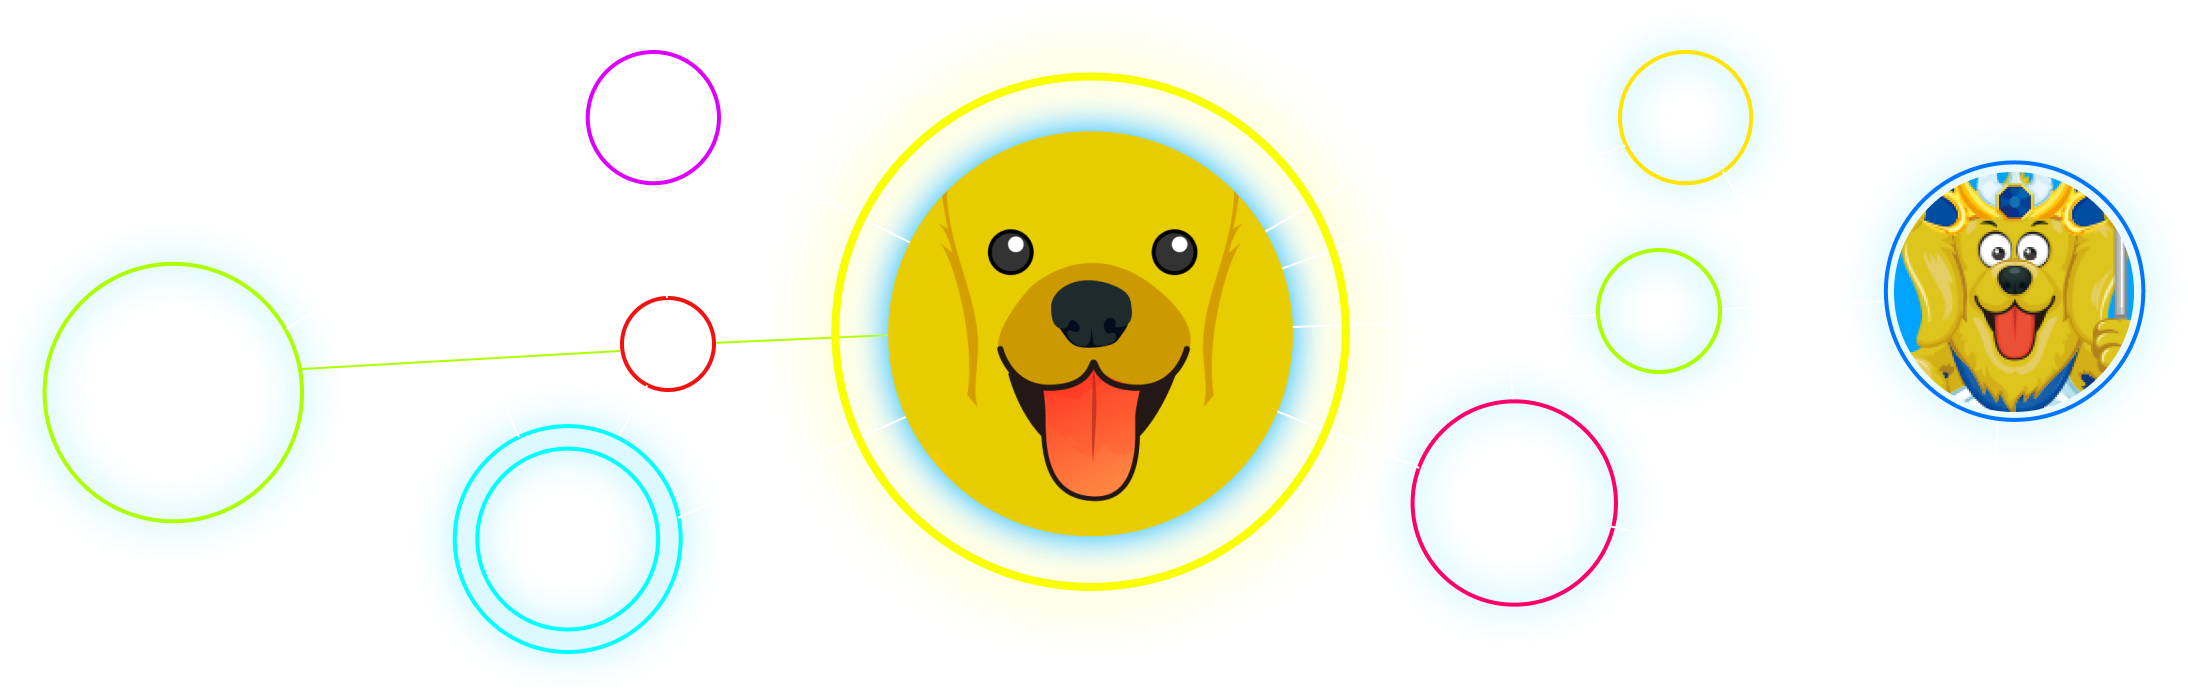
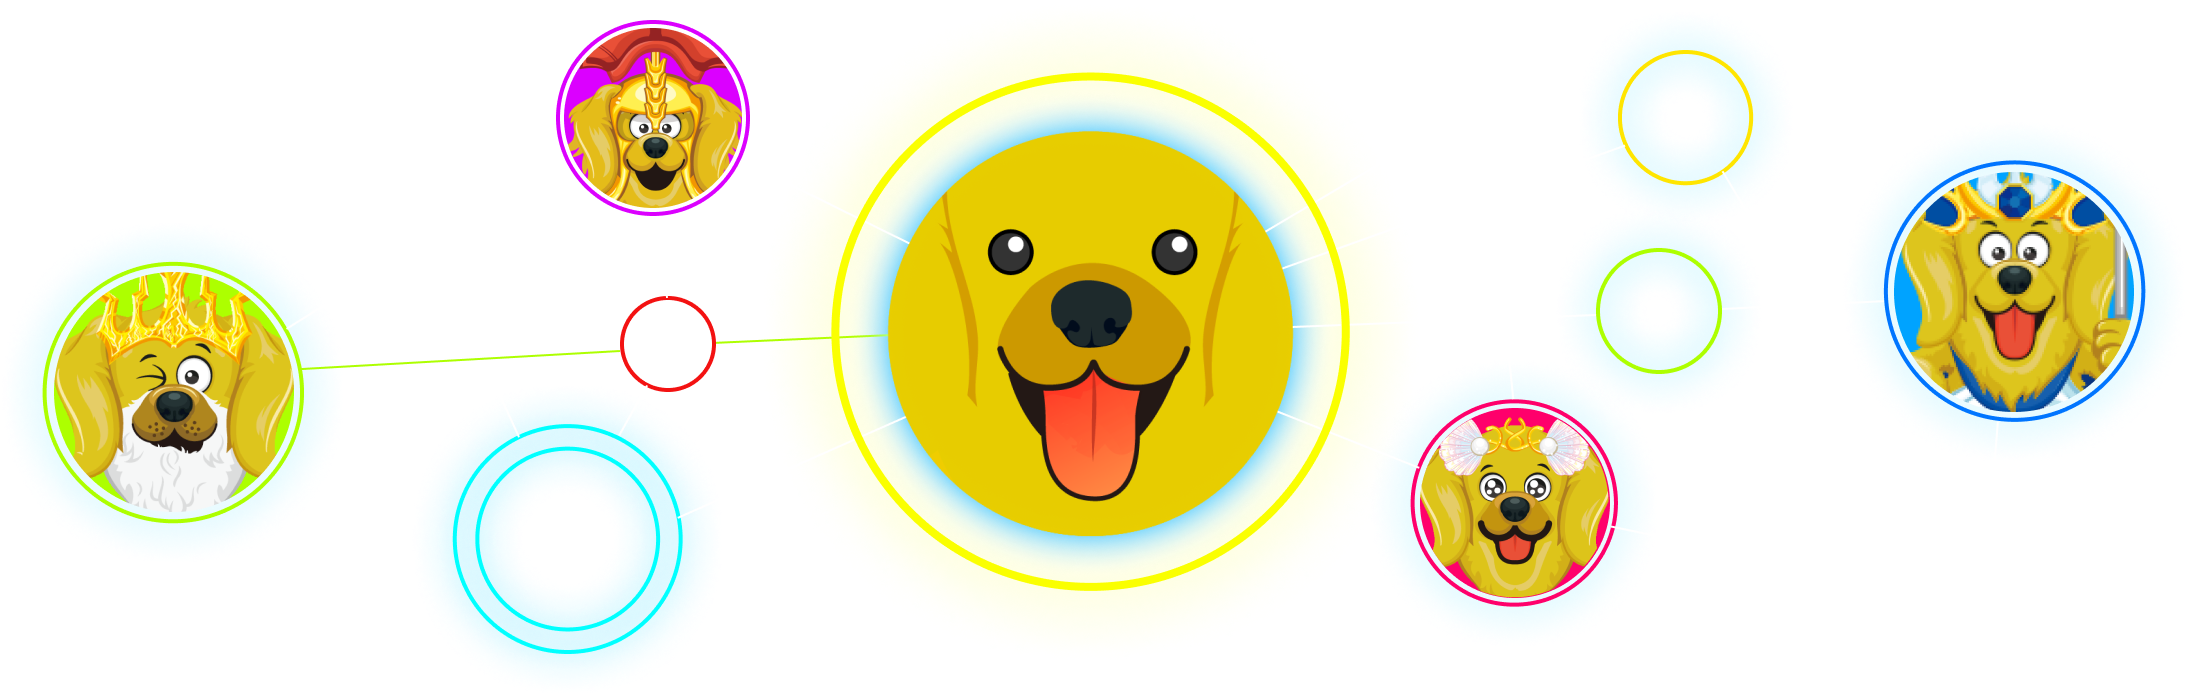
feat add carousel system

Changed region(s): [[0.0, 0.3922, 0.1554, 0.7241], [0.6216, 0.5733, 0.7459, 0.875], [0.2486, 0.0302, 0.3419, 0.3319]]

diff --git a/src/views/Home/Home.tsx b/src/views/Home/Home.tsx
@@ -3,6 +3,7 @@ import styled from 'styled-components'
 import { useTranslation } from 'contexts/Localization'
 import Page from 'components/layout/Page'
 import StatusArea from './components/StatusArea'
+import Carousel from "./components/Carousel";
 
 const AnimeBg = styled.div`
   @keyframes bgiLoop {
@@ -236,7 +237,6 @@ const Section2 = styled.div`
       width: 50%;
     }
   }
-  }
 `
 
 const Section3 = styled.div`
@@ -263,7 +263,6 @@ const Section3 = styled.div`
       width: 50%;
     }
   }
-  }
   img {
     max-height: 375px;
     margin: 0 auto;
@@ -272,7 +271,6 @@ const Section3 = styled.div`
       display: block;
     }
    }
-  }
 `
 
 const Section4 = styled.div`
@@ -302,7 +300,6 @@ const Section4 = styled.div`
       width: 50%;
     }
   }
-  }
 
   img {
     max-height: 350px;
@@ -311,7 +308,6 @@ const Section4 = styled.div`
       display: block;
     }
    }
-  }
 `
 
 const SlipPage = styled.div`
@@ -525,86 +521,7 @@ const Home: React.FC = () => {
             </div>
           </HomeMv>
           <StatusArea />
-          <HomeCarousel>
-            <div className="carouselwrap">
-               <div className="slide">
-                 <div className="image">
-                   <img src="/images/carousel01.png" alt="GoldenRetriever" />
-                 </div>
-                 <div className="text">
-                   <span>
-                   Name： 
-                   </span>
-                   GoldenRetriever
-                 <br />
-                   <span>
-                   Symbol：
-                   </span>
-                   INU
-                 <br />
-                   <span>
-                   Start Total Supply：
-                   </span>
-                   8,000
-                 <br />
-                   <span>
-                   Launch date：
-                   </span>
-                   08/08/2021
-                 <br />
-                   <span>
-                   Feature：
-                   </span>
-                 <br />
-                   The Golden Retriever is a large dog. Gentle character with wisdom and loyalty, Golden Retrievers are loved by many.
-                 </div>
-                 <div className="address">
-                   <span>
-                   Contract address
-                   </span>
-                   <div className="addresstxt">0x3F8b51C9b9Fe2ed06f9A165db906f7946B4C08E2</div>
-                 </div>
-               </div>
-               <div className="slide">
-                 <div className="image">
-                   <img src="/images/carousel02.png" alt="Poseidon" />
-                 </div>
-                 <div className="text">
-                   <span>
-                   Name： 
-                   </span>
-                   Poseidon Retriever
-                 <br />
-                   <span>
-                   Symbol：
-                   </span>
-                   RETPOSEIDON
-                 <br />
-                   <span>
-                   Total Supply：
-                   </span>
-                   6,000
-                 <br />
-                   <span>
-                   Launch date：
-                   </span>
-                   08/08/2021
-                 <br />
-                   <span>
-                   Feature：
-                   </span>
-                 <br />
-                 King of the sea. He is usually serious, but loves to talk with girls. His favorite food is fish, which he always catches and eats with his prized harpoon.
-                 </div>
-                 <div className="address">
-                   <span>
-                   Contract address
-                   </span>
-                   <div className="addresstxt">0x2a652ae0d27a86fd7b62375e9abe521534f6a9f5</div>
-                 </div>
-               </div>
-            </div>
-          </HomeCarousel>
+          <Carousel />
           <HomeContent>
             <Section1 className="mt50">
               <h2 className="txt_center">

diff --git a/src/views/Home/components/Carousel.tsx b/src/views/Home/components/Carousel.tsx
@@ -1,0 +1,93 @@
+import React from "react";
+import styled from "styled-components";
+import Slider from "react-slick";
+import CarouselItem from "./CarouselItem";
+
+
+const Wrapper = styled.div`
+  display: block;
+  width: 100%;
+  box-shadow: 0 0 20px 5px rgb(0 0 0 / 30%) inset;
+  padding: 15px 0 40px;
+  border-radius: 10px;
+  overflow: hidden;
+`
+
+const items = [
+  {
+    imagePath: `/images/carousel01.png`,
+    name: `GoldenRetriever`,
+    symbol: `INU`,
+    startTotalSupply: `8,000`,
+    launchDate: `08/08/2021`,
+    feature: `The Golden Retriever is a large dog. Gentle character with wisdom and loyalty, Golden Retrievers are loved by many.`,
+    contactAddress: `0x3F8b51C9b9Fe2ed06f9A165db906f7946B4C08E2`
+  },
+  {
+    imagePath: `/images/carousel02.png`,
+    name: `Poseidon Retriever`,
+    symbol: `RETPOSEIDON`,
+    startTotalSupply: `6,000`,
+    launchDate: `08/08/2021`,
+    feature: `King of the sea. He is usually serious, but loves to talk with girls. His favorite food is fish, which he always catches and eats with his prized harpoon.`,
+    contactAddress: `0x2a652ae0d27a86fd7b62375e9abe521534f6a9f5`
+  },
+  {
+    imagePath: `/images/carousel03.png`,
+    name: `Zeus Retriever`,
+    symbol: `RETZEUS`,
+    startTotalSupply: `3,000`,
+    launchDate: `27/08/2021`,
+    feature: `The main god and supreme deity of Greek mythologyIt's exciting to do anything. He is the supreme deity with both kindness and strength.`,
+    contactAddress: `0xc8887fcec64ffc6996647819b342dc68a8266ba7`
+  },
+  {
+    imagePath: `/images/carousel04.png`,
+    name: `Aphrodite Retriever`,
+    symbol: `RETAPHRODIT`,
+    startTotalSupply: `6,000`,
+    launchDate: `27/08/2021`,
+    feature: `Goddess of love, beauty and sex. The best goddess. She was so beautiful that she was courted by all the gods.`,
+    contactAddress: `0x8b5346865e60303fe0de622d9ae6b3778d93b334`
+  },
+  {
+    imagePath: `/images/carousel05.png`,
+    name: `Ares Retriever`,
+    symbol: `RETARES`,
+    startTotalSupply: `8,000`,
+    launchDate: `27/08/2021`,
+    feature: `He deified the frenzy and destruction during battle and was afraid as a raging god. He is a war god who fights bravely with a strong body.`,
+    contactAddress: `0x7039124347445987b2e3f8ad3944dc2ad8d8f4b9`
+  },
+]
+
+const Carousel: React.FC = () => {
+  const settings = {
+    dots: true,
+    speed: 500,
+    slidesToShow: 3,
+    slidesToScroll: 1,
+    responsive: [
+      {
+        breakpoint: 672,
+        settings: {
+          slidesToShow: 1,
+          slidesToScroll: 1,
+          infinite: true,
+          dots: true
+        }
+      }
+    ]
+  }
+  return (
+    <Wrapper>
+      <Slider {...settings}>
+      {items.map((item) =>
+        <CarouselItem {...item} />
+      )}
+      </Slider>
+    </Wrapper>
+  )
+}
+
+export default Carousel

diff --git a/src/views/Home/components/CarouselItem.tsx b/src/views/Home/components/CarouselItem.tsx
@@ -1,0 +1,91 @@
+import React from "react";
+import styled from "styled-components";
+
+
+const Slide = styled.div`
+  margin: 0 10px 0 0;
+  padding: 15px 20px;
+  background: rgba(0, 0, 0, 0.33);
+  box-shadow: rgb(7 0 27 / 40%) 0 0 16px;
+  vertical-align: top;
+`
+
+const Image = styled.div`
+  width: 100%;
+  margin-bottom: 10px;
+`
+
+const ProfileText = styled.div`
+  font-size: 13px;
+  margin-bottom: 10px;
+  line-height: 1.6;
+  span {
+    font-weight: bold;
+    margin-top: 7px;
+    color: #ffeb3b;
+  }
+`
+
+const Address = styled.div`
+  font-size: 13px;
+  line-height: 1.5;
+  font-weight: bold;
+  background: #000;
+  padding: 2px 10px 6px;
+  border-radius: 4px;
+  border: 1px solid #aaa;
+  span {
+    font-size: 14px;
+    display: block;
+    color: #ffeb3b;
+  }
+  .text {
+    word-break: break-all;
+    line-height: 1.2;
+    user-select:auto;
+  }
+`
+
+interface Props {
+  imagePath: string
+  name: string
+  symbol: string
+  startTotalSupply: string
+  launchDate: string
+  feature: string
+  contactAddress: string
+}
+
+const CarouselItem: React.FC<Props> = ({
+  imagePath,
+  name,
+  symbol,
+  startTotalSupply,
+  launchDate,
+  feature,
+  contactAddress
+}) => {
+  return (
+    <Slide>
+      <div>
+        <Image>
+          <img src={imagePath} alt={name} />
+        </Image>
+        <ProfileText>
+          <span>Name:</span>{name}<br />
+          <span>Symbol:</span>{symbol}<br />
+          <span>Start Total Supply:</span>{startTotalSupply}<br />
+          <span>Launch date:</span>{launchDate}<br />
+          <span>Feature:</span><br />
+          {feature}
+        </ProfileText>
+        <Address>
+          <span>Contract address</span>
+          <div className="text">{contactAddress}</div>
+        </Address>
+      </div>
+    </Slide>
+  )
+}
+
+export default CarouselItem

diff --git a/public/index.html b/public/index.html
@@ -11,6 +11,8 @@
     <link rel="shortcut icon" href="%PUBLIC_URL%/favicon.ico" />
     <link rel="apple-touch-icon" href="%PUBLIC_URL%/logo.png" />
     <link rel="manifest" href="%PUBLIC_URL%/manifest.json" />
+    <link rel="stylesheet" type="text/css" charset="UTF-8" href="https://cdnjs.cloudflare.com/ajax/libs/slick-carousel/1.6.0/slick.min.css" />
+    <link rel="stylesheet" type="text/css" href="https://cdnjs.cloudflare.com/ajax/libs/slick-carousel/1.6.0/slick-theme.min.css" />
     <!-- Meta -->
     <title>Golden Retriever finance!</title>
     <meta
